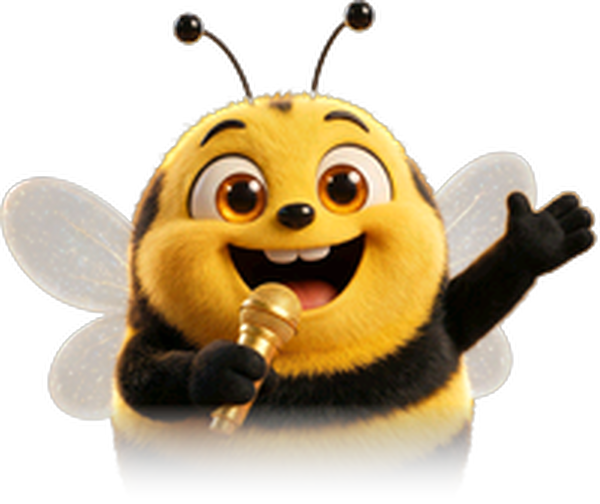
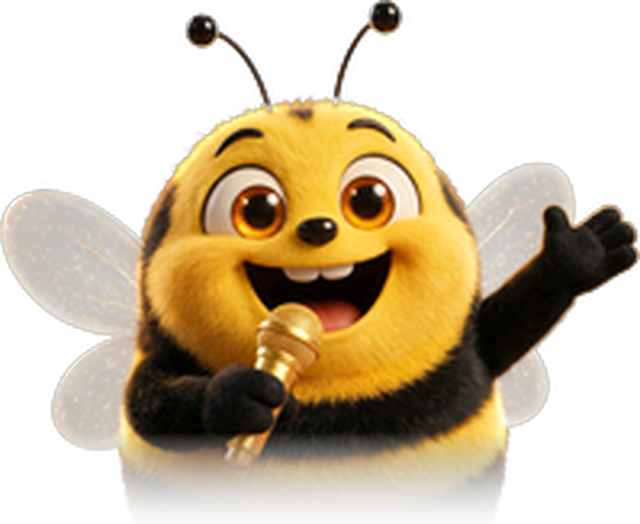
Characters trimmed to true edges, anchored to tile floor, sized as a pair

diff --git a/assets/css/premium.css b/assets/css/premium.css
@@ -217,15 +217,15 @@ a.bt:hover{transform:translateY(-3px)}
 .cardfan img:nth-child(2){left:28%;transform:rotate(-1deg);bottom:9%;z-index:2}
 .cardfan img:nth-child(3){left:52%;transform:rotate(9deg);bottom:0}
 .bt.big p{max-width:17ch}
-.btchars{position:absolute;right:1%;bottom:-3%;height:82%;display:flex;align-items:flex-end;pointer-events:none;z-index:1}
-.btchars img{height:94%;width:auto;filter:drop-shadow(0 10px 18px rgba(35,26,16,.25))}
-.btchars img+img{margin-left:-10%}
-.bt.has-chars{padding-right:42%}
+.btchars{position:absolute;right:3%;bottom:0;height:84%;display:flex;align-items:flex-end;pointer-events:none;z-index:1}
+.btchars img{height:88%;width:auto;filter:drop-shadow(0 8px 14px rgba(35,26,16,.22))}
+.btchars img+img{height:100%;margin-left:-4%}
+.bt.has-chars{padding-right:45%}
 @media (max-width:600px){
   .cardfan{width:58%;height:52%;right:-4%}
   .bt.big p{max-width:14ch;font-size:13px}
-  .btchars{height:72%}
-  .bt.has-chars{padding-right:46%}
+  .btchars{height:70%;right:2%}
+  .bt.has-chars{padding-right:49%}
   .bt.has-chars h3{font-size:19px}
 }
 .bt.c-brand{background:var(--brand);color:#FFFFFF}

diff --git a/faq.html b/faq.html
@@ -17,7 +17,7 @@
 <link rel="preconnect" href="https://fonts.googleapis.com" />
 <link rel="preconnect" href="https://fonts.gstatic.com" crossorigin />
 <link rel="stylesheet" href="https://fonts.googleapis.com/css2?family=Gabarito:wght@600;700;800;900&family=Hanken+Grotesk:wght@400;600;800&family=Spline+Sans+Mono:wght@500;700&display=swap" />
-<link rel="stylesheet" href="assets/css/premium.css?v=8" />
+<link rel="stylesheet" href="assets/css/premium.css?v=9" />
 <script type="application/ld+json">
 {
   "@context": "https://schema.org",

diff --git a/hero-c.html b/hero-c.html
@@ -18,7 +18,7 @@
 <link rel="preconnect" href="https://fonts.googleapis.com" />
 <link rel="preconnect" href="https://fonts.gstatic.com" crossorigin />
 <link rel="stylesheet" href="https://fonts.googleapis.com/css2?family=Gabarito:wght@600;700;800;900&family=Hanken+Grotesk:wght@400;600;800&family=Spline+Sans+Mono:wght@500;700&display=swap" />
-<link rel="stylesheet" href="assets/css/premium.css?v=8" />
+<link rel="stylesheet" href="assets/css/premium.css?v=9" />
 <script type="application/ld+json">
 {
   "@context": "https://schema.org",

diff --git a/index.html b/index.html
@@ -17,7 +17,7 @@
 <link rel="preconnect" href="https://fonts.googleapis.com" />
 <link rel="preconnect" href="https://fonts.gstatic.com" crossorigin />
 <link rel="stylesheet" href="https://fonts.googleapis.com/css2?family=Gabarito:wght@600;700;800;900&family=Hanken+Grotesk:wght@400;600;800&family=Spline+Sans+Mono:wght@500;700&display=swap" />
-<link rel="stylesheet" href="assets/css/premium.css?v=8" />
+<link rel="stylesheet" href="assets/css/premium.css?v=9" />
 <script type="application/ld+json">
 {
   "@context": "https://schema.org",

diff --git a/cards.html b/cards.html
@@ -17,7 +17,7 @@
 <link rel="preconnect" href="https://fonts.googleapis.com" />
 <link rel="preconnect" href="https://fonts.gstatic.com" crossorigin />
 <link rel="stylesheet" href="https://fonts.googleapis.com/css2?family=Gabarito:wght@600;700;800;900&family=Hanken+Grotesk:wght@400;600;800&family=Spline+Sans+Mono:wght@500;700&display=swap" />
-<link rel="stylesheet" href="assets/css/premium.css?v=8" />
+<link rel="stylesheet" href="assets/css/premium.css?v=9" />
 </head>
 <body>
 

diff --git a/compare.html b/compare.html
@@ -17,7 +17,7 @@
 <link rel="preconnect" href="https://fonts.googleapis.com" />
 <link rel="preconnect" href="https://fonts.gstatic.com" crossorigin />
 <link rel="stylesheet" href="https://fonts.googleapis.com/css2?family=Gabarito:wght@600;700;800;900&family=Hanken+Grotesk:wght@400;600;800&family=Spline+Sans+Mono:wght@500;700&display=swap" />
-<link rel="stylesheet" href="assets/css/premium.css?v=8" />
+<link rel="stylesheet" href="assets/css/premium.css?v=9" />
 </head>
 <body>
 
